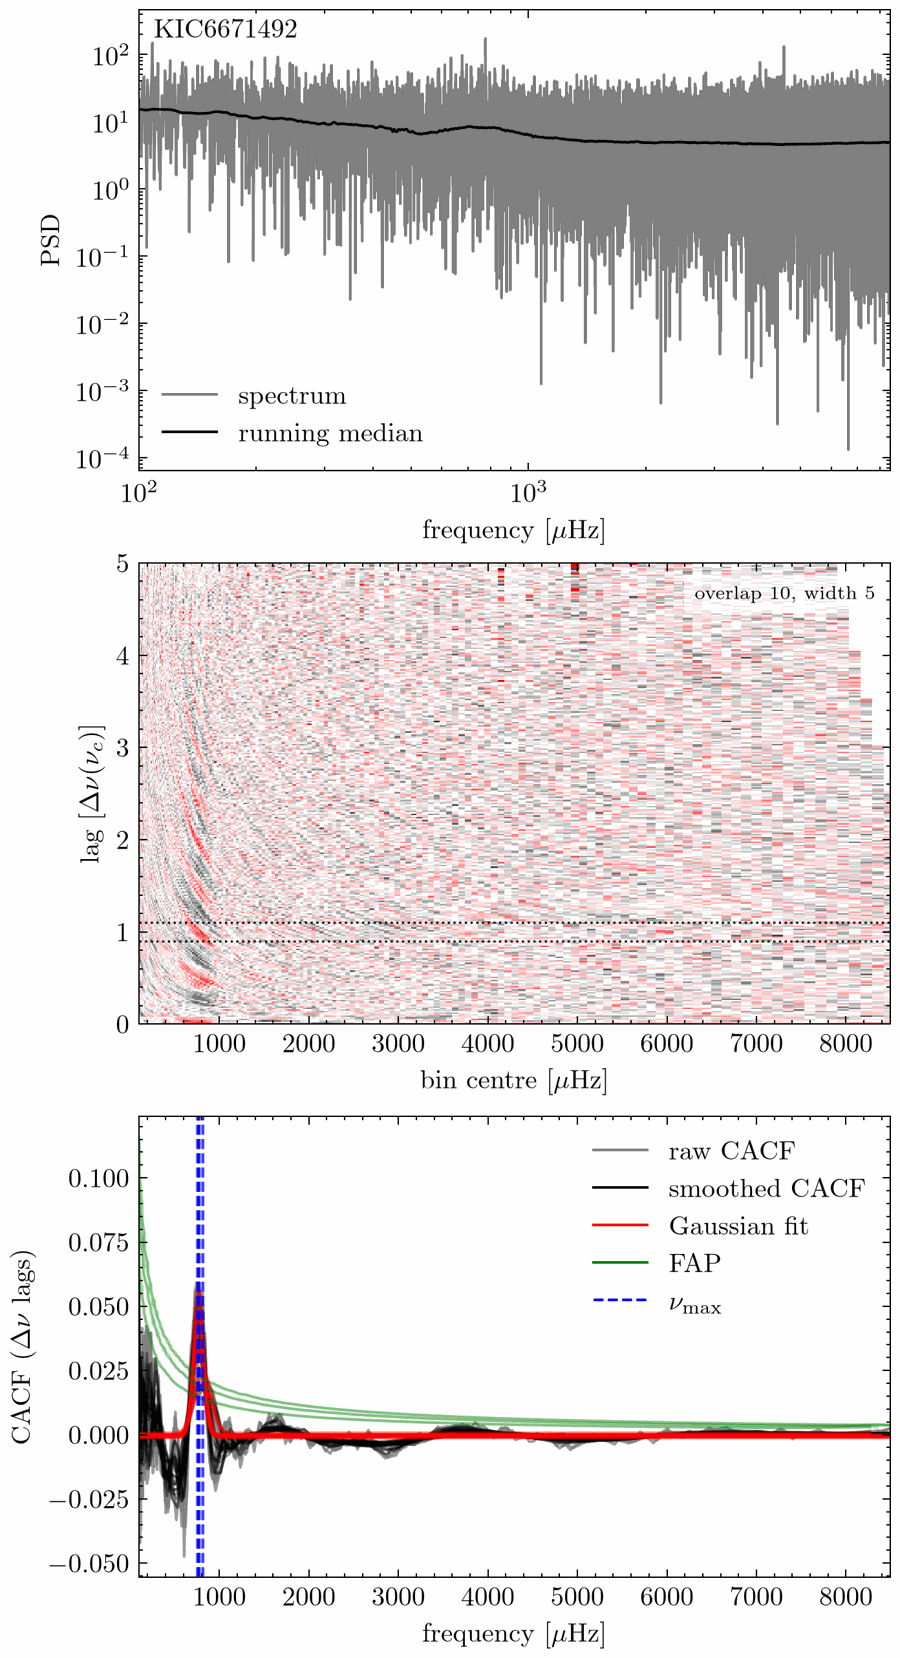
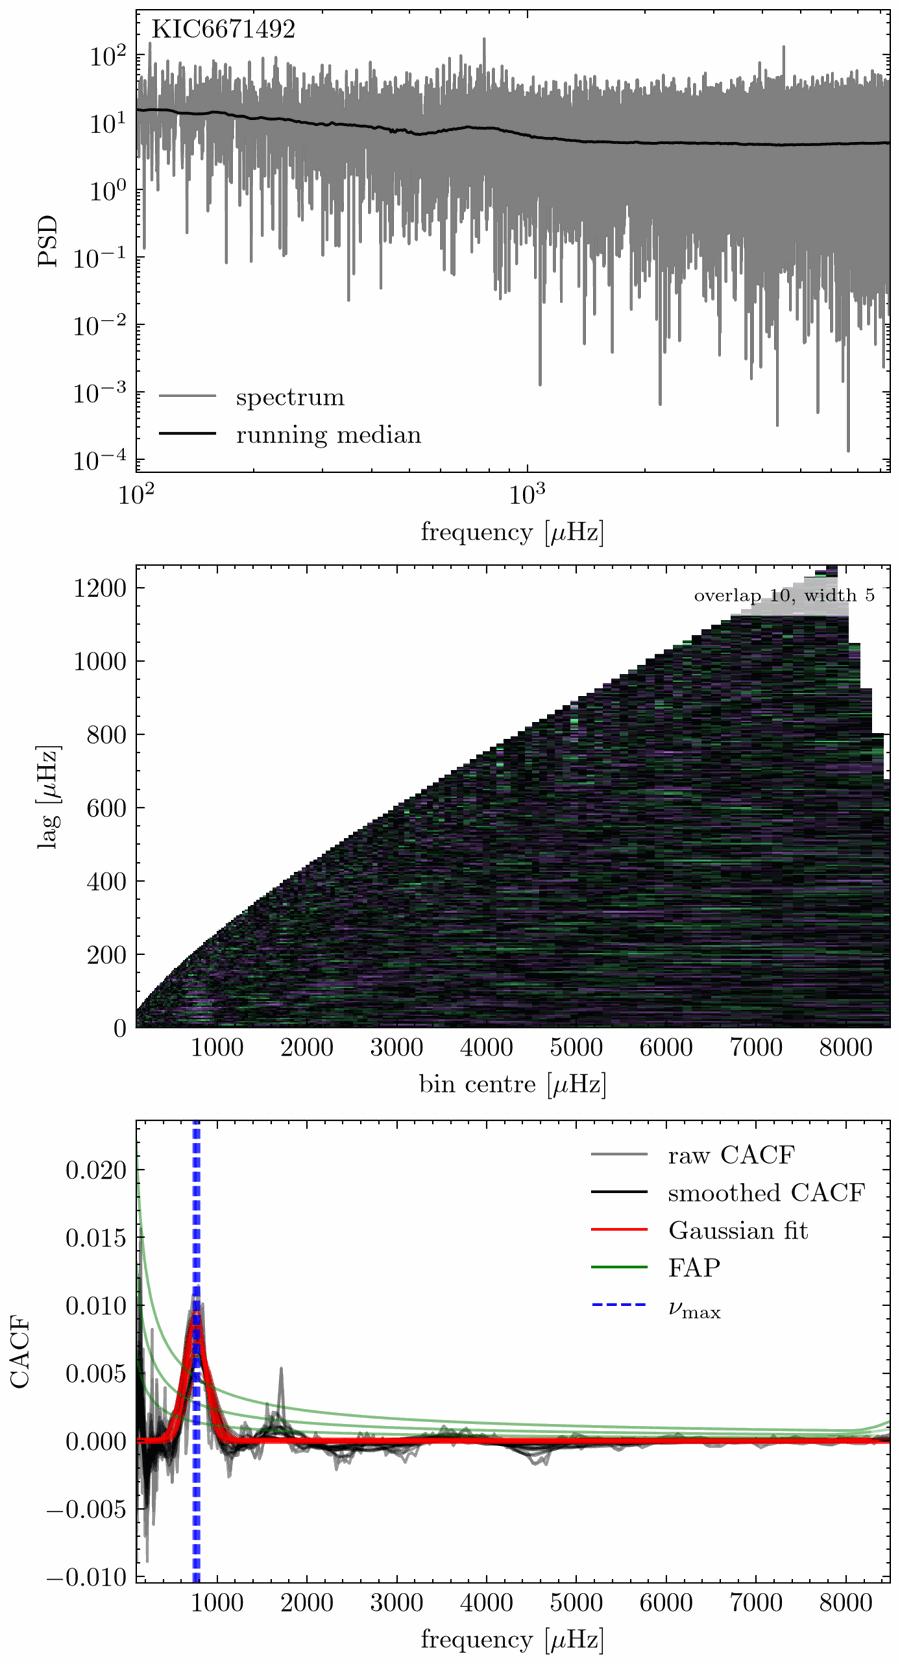
delta_nu bands (dnu_bands), sum-rule variance, purple-black-green 2D ACF
- delta_nu: equal-weight average of band means; dnu_bands: B -> bands at m = 0.5 ... 0.5 B;
  overlapping bands trimmed, bands beyond a bin skipped
- Analytic null variance conditioned on the sum rule sum r(k) = -1/2
  (white-noise scatter 0.99-1.00 for 1-26 bands)
- 2D ACF colour map purple (anticorrelated) - black (noise) - green (correlated);
  delta_nu band edges dotted in white
- README example figures with the default all_lags

diff --git a/src/numax_proxies/methods/acf.py b/src/numax_proxies/methods/acf.py
@@ -77,15 +77,18 @@ def cacf_in_windows(power, idx_start, idx_end):
 def cacf_delta_nu_in_windows(power, idx_start, idx_end, k_lo, k_hi):
     """Collapsed ACF ('delta_nu') of every bin and its white-noise mean and sd.
 
-    Statistic: mean of r(k) = ACF(k) / ACF(0) over k_lo[i, m] <= k <= k_hi[i, m].
+    Statistic: mean over the bands m of the band mean of r(k) = ACF(k) / ACF(0) over
+    k_lo[i, m] <= k <= k_hi[i, m]; every band that fits in the bin has equal weight.
+    White noise: E r(k) = -(n-k)/n^2, Var r(k) = (n-k)/n^2, lags conditioned on the sum
+    rule sum_{k>=1} r(k) = -1/2 (Var S = sum a_k^2 Var r_k - mean^2 2n/(n-1)).
 
     Args:
         power: relative power.
         idx_start, idx_end: bin i covers power[idx_start[i]:idx_end[i]].
-        k_lo, k_hi: (n_bins, n_multiples) lag ranges in frequency points.
+        k_lo, k_hi: (n_bins, n_bands) lag ranges in frequency points (not overlapping).
 
     Returns:
-        (statistic, null_mean, null_sd) per bin; NaN where the bin has no lag in range.
+        (statistic, null_mean, null_sd) per bin; NaN where no band fits in the bin.
     """
     n_windows = len(idx_start)
     stat = np.full(n_windows, np.nan)
@@ -104,38 +107,50 @@ def cacf_delta_nu_in_windows(power, idx_start, idx_end, k_lo, k_hi):
         c0 = corr[0]
         if not c0 > 0.0:
             continue
-        total, mean0, var0, count = 0.0, 0.0, 0.0, 0
+        total, mean0, var0, n_bands = 0.0, 0.0, 0.0, 0
         for m in range(k_lo.shape[1]):
             lo = max(1, k_lo[i, m])
             hi = min(n - 1, k_hi[i, m])
+            if hi < lo:                                         # band beyond the bin
+                continue
+            b_tot, b_mean, b_var, count = 0.0, 0.0, 0.0, 0
             for k in range(lo, hi + 1):
-                total += corr[k] / c0
-                mean0 -= (n - k) / (n * n)
-                var0 += (n - k) / (n * n)
+                b_tot += corr[k] / c0
+                b_mean -= (n - k) / (n * n)
+                b_var += (n - k) / (n * n)
                 count += 1
-        if count > 0:
-            stat[i] = total / count
-            null_mean[i] = mean0 / count
-            null_sd[i] = np.sqrt(var0) / count
+            total += b_tot / count                              # band means, equal weights
+            mean0 += b_mean / count
+            var0 += b_var / (count * count)
+            n_bands += 1
+        if n_bands > 0:
+            stat[i] = total / n_bands
+            null_mean[i] = mean0 / n_bands
+            # sum rule sum_{k>=1} r(k) = -1/2: condition the lags on it
+            var = var0 / (n_bands * n_bands) - null_mean[i] ** 2 * 2.0 * n / (n - 1)
+            null_sd[i] = np.sqrt(var) if var > 0 else np.nan
     return stat, null_mean, null_sd
 
 
 def delta_nu_lag_ranges(centres, frequency, window, multiples):
-    """Lag ranges within +- window of m x Delta-nu(bin centre).
+    """Lag bands within +- window x m x Delta-nu(bin centre) of m x Delta-nu.
+
+    Bands that would overlap are trimmed so that no lag is in two bands.
 
     Args:
         centres: bin centres [muHz].
         frequency: frequency grid [muHz] (uniform).
-        window: half-width as a fraction of Delta-nu.
-        multiples: multiples m of Delta-nu.
+        window: half-width as a fraction of m x Delta-nu.
+        multiples: multiples m of Delta-nu (ascending).
 
     Returns:
-        (k_lo, k_hi), each (n_bins, n_multiples), in frequency points.
+        (k_lo, k_hi), each (n_bins, n_bands), in frequency points.
     """
     df = frequency[1] - frequency[0]
-    dnu = delta_nu(centres)[:, None] * np.asarray(multiples, dtype=float)[None, :]
+    dnu = delta_nu(centres)[:, None] * np.sort(np.asarray(multiples, dtype=float))[None, :]
     k_lo = np.ceil(dnu * (1 - window) / df).astype(np.int64)
     k_hi = np.floor(dnu * (1 + window) / df).astype(np.int64)
+    k_hi[:, :-1] = np.minimum(k_hi[:, :-1], k_lo[:, 1:] - 1)      # no shared lags
     return np.ascontiguousarray(k_lo), np.ascontiguousarray(k_hi)
 
 

diff --git a/src/numax_proxies/config.py b/src/numax_proxies/config.py
@@ -152,6 +152,8 @@ class ACFConfig(_MethodConfig):
     collapse: Literal["all_lags", "delta_nu"] = "all_lags"   # how each bin's ACF becomes one number
     dnu_window: float = 0.1                 # delta_nu: half-width of the lag window, fraction of Delta-nu
     dnu_multiples: list[float] = field(default_factory=lambda: [1.0])  # delta_nu: lags at m x Delta-nu
+    dnu_bands: Optional[int] = None         # delta_nu: B -> bands at m = 0.5, 1.0, ..., 0.5 B
+                                            # (overrides dnu_multiples); bands beyond a bin are skipped
     plot_2dacf: Union[bool, list] = False   # 2D ACF panel in ACF.png: true (first grid
                                             # setting) or [overlap_scale, width_factor]
     max_acf_fit_iterations: int = 1         # successive Gaussian fits; keeps the largest integral
@@ -162,16 +164,21 @@ class ACFConfig(_MethodConfig):
         super().__post_init__()
         if self.collapse not in ("all_lags", "delta_nu"):
             raise ValueError("ACF_CONFIG.collapse must be 'all_lags' or 'delta_nu'")
-        self.dnu_multiples = [float(m) for m in np.atleast_1d(self.dnu_multiples)]
+        if self.dnu_bands is not None:
+            if int(self.dnu_bands) != self.dnu_bands or self.dnu_bands < 1:
+                raise ValueError("dnu_bands must be a positive integer")
+            self.dnu_bands = int(self.dnu_bands)
+            self.dnu_multiples = [0.5 * b for b in range(1, self.dnu_bands + 1)]
+        self.dnu_multiples = sorted(float(m) for m in np.atleast_1d(self.dnu_multiples))
         if not 0 < self.dnu_window < 1 or any(m <= 0 for m in self.dnu_multiples):
             raise ValueError("dnu_window must be in (0, 1) and dnu_multiples positive")
         if self.collapse == "delta_nu":
-            needed = (1 + self.dnu_window) * max(self.dnu_multiples)
+            needed = (1 + self.dnu_window) * min(self.dnu_multiples)
             too_narrow = [w for w in self.width_factor if w <= needed]
             if too_narrow:
                 warnings.warn(f"ACF collapse 'delta_nu': width_factor {too_narrow} <= {needed:.2f} "
-                              "is narrower than the lag window; those bins give only partial or "
-                              "no lags (NaN)", stacklevel=2)
+                              "is narrower than the first lag band; those bins give NaN",
+                              stacklevel=2)
         if not isinstance(self.plot_2dacf, bool):
             pair = [float(v) for v in np.atleast_1d(self.plot_2dacf)]
             if len(pair) != 2:

diff --git a/tests/test_acf_delta_nu.py b/tests/test_acf_delta_nu.py
@@ -45,7 +45,7 @@ def test_config_checks():
     with warnings.catch_warnings(record=True) as w:
         warnings.simplefilter("always")
         config_from_dict({"ACF_CONFIG": {"collapse": "delta_nu", "width_factor": [1, 5]}})
-    assert any("narrower than the lag window" in str(x.message) for x in w)
+    assert any("narrower than the first lag band" in str(x.message) for x in w)
     with pytest.raises(ValueError):
         config_from_dict({"ACF_CONFIG": {"collapse": "sum"}})
 
@@ -61,3 +61,28 @@ def test_plot_with_2dacf(tmp_path):
     assert list(tmp_path.rglob("ACF.png"))
     with pytest.raises(ValueError):
         config_from_dict({"ACF_CONFIG": {"plot_2dacf": [5]}})
+
+
+def test_dnu_bands_expand_and_do_not_overlap(kepler_grid):
+    cfg = config_from_dict({"ACF_CONFIG": {"collapse": "delta_nu", "dnu_bands": 8,
+                                           "width_factor": [5]}}).acf_config
+    assert cfg.dnu_multiples == [0.5, 1.0, 1.5, 2.0, 2.5, 3.0, 3.5, 4.0]
+    centres, _, _ = log_numax_bins(kepler_grid, 20.0, None, 5.0, 5.0)
+    k_lo, k_hi = delta_nu_lag_ranges(centres, kepler_grid, 0.1, cfg.dnu_multiples)
+    assert np.all(k_hi[:, :-1] < k_lo[:, 1:])                  # no lag in two bands
+
+
+def test_white_noise_calibration_with_bands(rng):
+    """With several bands, (stat - null_mean) / null_sd is still ~ N(0, 1)."""
+    f = kepler_lc_grid()
+    z_all = []
+    for _ in range(60):
+        x = rng.exponential(size=f.size) / np.log(2) - 1
+        centres, i0, i1 = log_numax_bins(f, 5.0, None, 5.0, 1.0)
+        k_lo, k_hi = delta_nu_lag_ranges(centres, f, 0.1, [0.5 * b for b in range(1, 9)])
+        stat, mu, sd = cacf_delta_nu_in_windows(x, i0, i1, k_lo, k_hi)
+        ok = np.isfinite(stat)
+        z_all.append((stat[ok] - mu[ok]) / sd[ok])
+    z = np.concatenate(z_all)
+    assert abs(np.mean(z)) < 0.1
+    assert abs(np.std(z) - 1) < 0.1

diff --git a/src/numax_proxies/plotting.py b/src/numax_proxies/plotting.py
@@ -65,15 +65,15 @@ def _acf_map_setting(cfg, results):
     return tuple(cfg.plot_2dacf)
 
 
-# negative correlation black, none white, positive red
+# anticorrelated purple, white noise black, correlated green
 ACF_MAP_CMAP = matplotlib.colors.LinearSegmentedColormap.from_list(
-    "black_white_red", ["black", "white", "red"])
+    "purple_black_green", ["#c77dff", "black", "#57e389"])
 
 
 def plot_acf_map(ax, method):
     """Draw the 2D ACF of one grid setting into ax.
 
-    Colour: r(k) / white-noise sd, black = anticorrelated, white = noise, red = correlated.
+    Colour: r(k) / white-noise sd, purple = anticorrelated, black = noise, green = correlated.
     Lag axis: units of Delta-nu(bin centre) for collapse delta_nu, muHz for all_lags.
 
     Args:
@@ -94,9 +94,14 @@ def plot_acf_map(ax, method):
     ax.pcolormesh(centres, lags, z, shading="nearest", cmap=ACF_MAP_CMAP, vmin=-4, vmax=4,
                   rasterized=True)
     if in_dnu:
-        for m in cfg.dnu_multiples:
-            for edge in (1 - cfg.dnu_window, 1 + cfg.dnu_window):
-                ax.axhline(m * edge, c="k", ls=":", lw=0.8)
+        ms = sorted(cfg.dnu_multiples)
+        for j, m in enumerate(ms):
+            hi = m * (1 + cfg.dnu_window)
+            if j + 1 < len(ms):                                  # trimmed like the lag bands
+                hi = min(hi, ms[j + 1] * (1 - cfg.dnu_window))
+            for edge in (m * (1 - cfg.dnu_window), hi):
+                if edge < factor:
+                    ax.axhline(edge, c="w", ls=":", lw=0.8)
         ax.set(ylabel=r"lag [$\Delta\nu(\nu_c)$]", ylim=(0, factor))
     else:
         ax.set(ylabel=r"lag [$\mu$Hz]", ylim=(0, lags[-1]))

diff --git a/README.md b/README.md
@@ -120,12 +120,13 @@ Bins follow the expected large separation, Δν(ν) = 0.267 ν<sup>0.764</sup> (
   * `all_lags` (default): mean |r(k)| over all lags 1 … n−1 (Viani's MCC) minus μ<sub>0</sub>(n).
     For white noise mean |r| ≈ 0.53/√n; μ<sub>0</sub>(n) is taken from the simulations behind the
     FAP tables.
-  * `delta_nu`: r(k), signed, averaged over the lags within ±`dnu_window` of
-    m·Δν(ν<sub>c</sub>) for each m in `dnu_multiples` (how strongly the spectrum repeats at the
-    Δν expected if ν<sub>max</sub> were at the bin centre), minus its white-noise mean. For
-    white noise r(k) has mean −(n−k)/n² and variance (n−k)/n², lags ~independent, so mean
-    and threshold are analytic (threshold z·σ). Bins must be wider than
-    (1 + `dnu_window`)·max(m) Δν.
+  * `delta_nu`: r(k), signed, averaged over the lags within ±`dnu_window`·m·Δν(ν<sub>c</sub>) of
+    m·Δν(ν<sub>c</sub>) (how strongly the spectrum repeats at the Δν expected if ν<sub>max</sub>
+    were at the bin centre), minus its white-noise mean. One band per m in `dnu_multiples`
+    (default [1]); `dnu_bands: B` uses all bands m = 0.5, 1, …, 0.5 B (the ridges spaced Δν/2 in
+    the 2D ACF). Each band's mean has equal weight; bands that would overlap are trimmed, bands
+    beyond a bin are skipped. For white noise r(k) has mean −(n−k)/n² and variance (n−k)/n²,
+    and the lags obey Σ<sub>k≥1</sub> r(k) = −½; mean and threshold are analytic (threshold z·σ).
 
 ### 5. Smoothing
 Running mean of the binned curve over `smoothing_factor` × envelope FWHM.
@@ -162,16 +163,17 @@ The error is the median of the formal fit errors, which are too small.
 
 ## Example figures
 
-ACF (`collapse: delta_nu`, with the 2D ACF panel, `plot_2dacf: [10, 5]`) and CoV of a red
+ACF (default `collapse: all_lags`, with the 2D ACF panel, `plot_2dacf: [10, 5]`) and CoV of a red
 giant and a main-sequence star, for widths 3, 5, 10, overlaps 5, 10 and smoothing factors
 0.5, 1, 1.5, with `significance_at_numax: true`. Each line is one grid setting; dashed lines are the fitted ν<sub>max</sub>.
-In the 2D ACF, red is correlated, white is white noise and black is anticorrelated; the
-dotted lines are the `delta_nu` lag window (1 ± `dnu_window`) Δν(ν<sub>c</sub>).
+In the 2D ACF, green is correlated, black is white noise and purple is anticorrelated; for
+`all_lags` the lag axis is in µHz (for `delta_nu` in units of Δν(ν<sub>c</sub>), with the lag
+bands dotted).
 
 | | ACF | CoV |
 |---|---|---|
-| **Red giant**, KIC 11612603 (APOKASC-3 ν<sub>max</sub> = 86.0 µHz; ACF 91.1, CoV 87.4) | ![RG ACF](docs/figures/RG_ACF.png) | ![RG CoV](docs/figures/RG_CoV.png) |
-| **Main sequence**, KIC 6671492 (Sayeed et al. ν<sub>max</sub> = 728 µHz; ACF 770, CoV 699) | ![MS ACF](docs/figures/MS_ACF.png) | ![MS CoV](docs/figures/MS_CoV.png) |
+| **Red giant**, KIC 11612603 (APOKASC-3 ν<sub>max</sub> = 86.0 µHz; ACF 95.1, CoV 87.4) | ![RG ACF](docs/figures/RG_ACF.png) | ![RG CoV](docs/figures/RG_CoV.png) |
+| **Main sequence**, KIC 6671492 (Sayeed et al. ν<sub>max</sub> = 728 µHz; ACF 767, CoV 699) | ![MS ACF](docs/figures/MS_ACF.png) | ![MS CoV](docs/figures/MS_CoV.png) |
 
 ## Configuration reference
 
@@ -223,7 +225,8 @@ Relative input paths are resolved relative to the YAML file. See
 | replace_below_min_freq | true | white noise below min_freq |
 | FAP_threshold | 95p0 | 95p0 or 99p0 (per bin) |
 | collapse | all_lags | ACF only: `all_lags` or `delta_nu` |
-| dnu_window, dnu_multiples | 0.1, [1] | ACF `delta_nu`: lag window (fraction of Δν), multiples of Δν |
+| dnu_window, dnu_multiples | 0.1, [1] | ACF `delta_nu`: lag window (fraction of m·Δν), multiples m of Δν |
+| dnu_bands | null | ACF `delta_nu`: B → bands at m = 0.5, 1, …, 0.5 B (overrides `dnu_multiples`) |
 | plot_2dacf | false | ACF only: 2D ACF panel in ACF.png (lag vs bin centre; lag in Δν(ν<sub>c</sub>) for `delta_nu`, in µHz for `all_lags`); `true` = first grid setting, or `[overlap_scale, width_factor]` |
 | significance_at_numax | false | true: a significant bin must lie within 1 FWHM of the fitted numax |
 | plot, plot_log_scale | false | figures |
